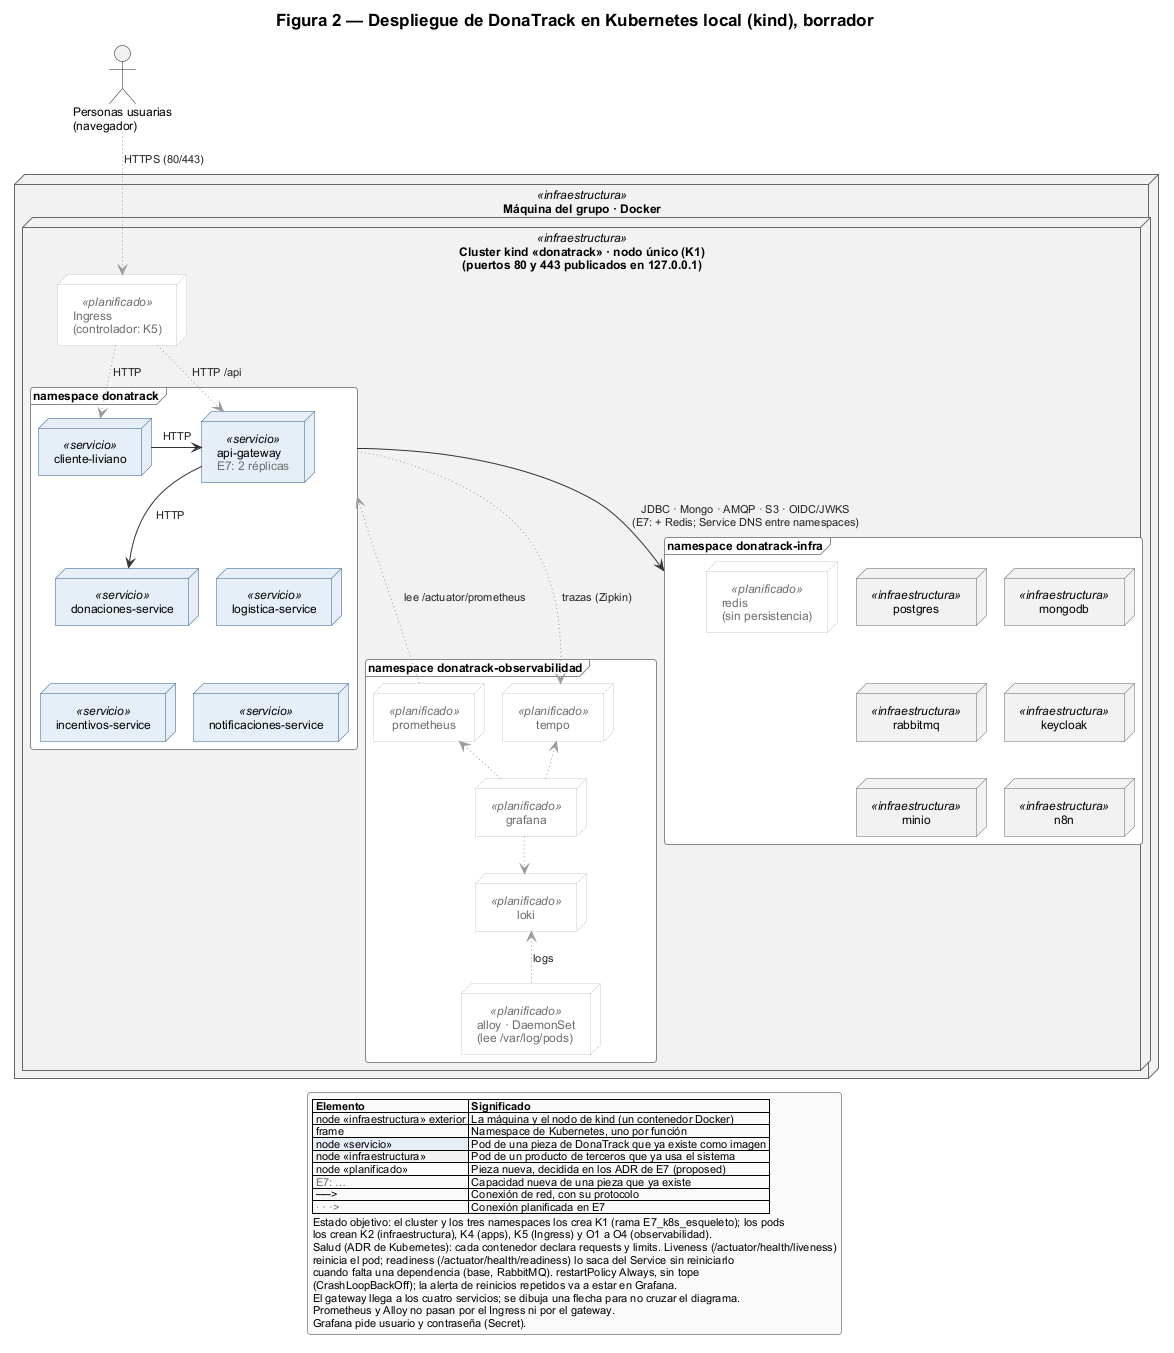
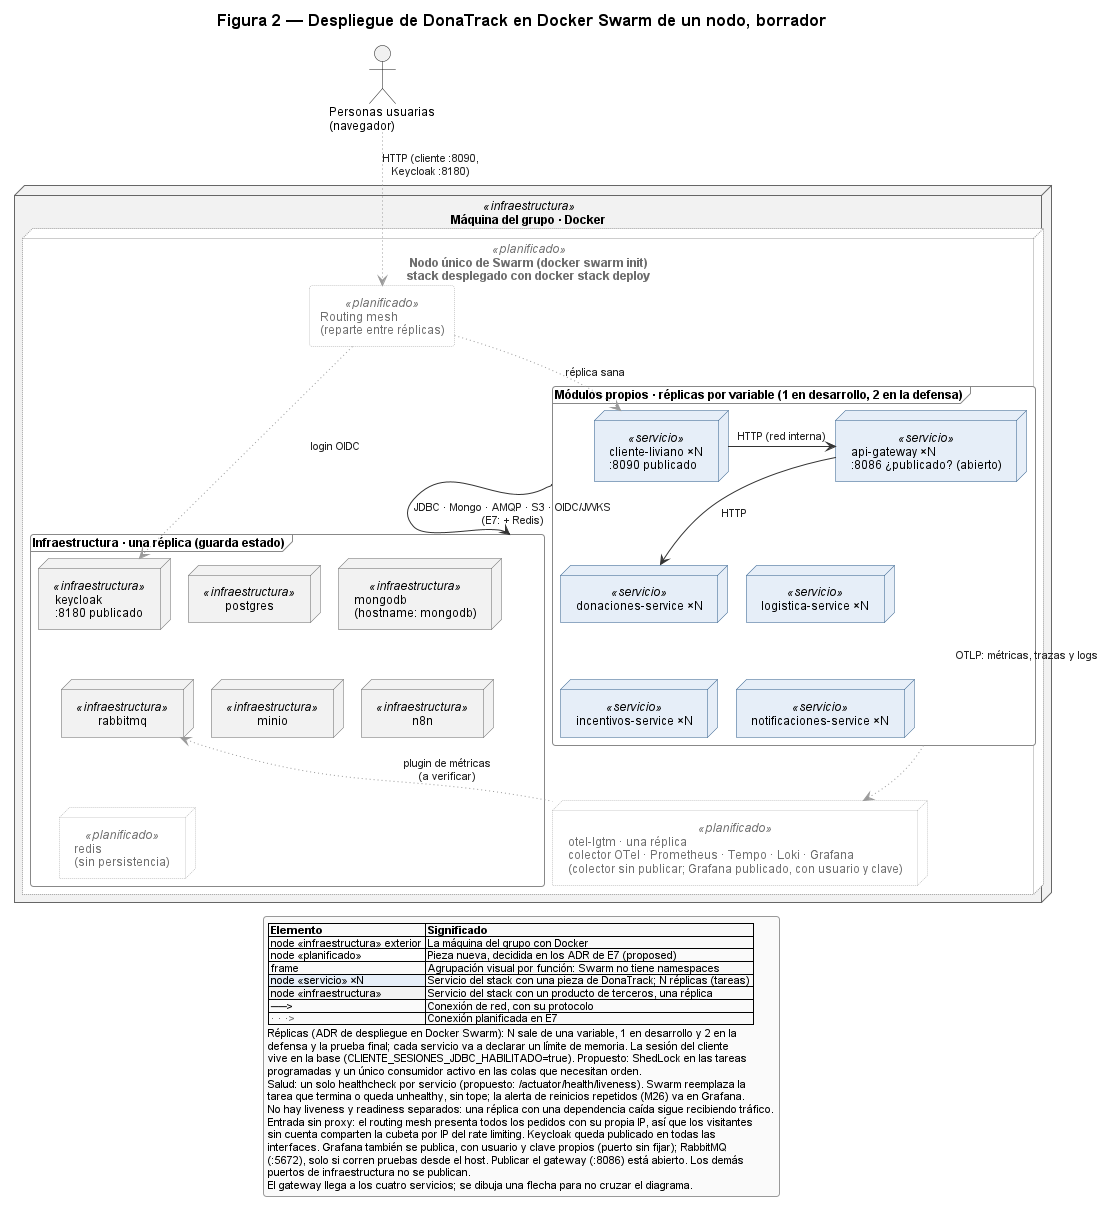
E7: diagramas del borrador rehechos para Docker Swarm y otel-lgtm (E7-S05b)
Figura 1 sin Ingress, con la imagen todo en uno grafana/otel-lgtm y las
señales por OTLP. Figura 2 con un nodo de Swarm, los seis módulos propios
replicados por variable, sin proxy delante y el gateway publicado como
decisión abierta. README de la carpeta e índices sincronizados.

diff --git a/docs/entrega-7/arquitectura/diagramas/README.md b/docs/entrega-7/arquitectura/diagramas/README.md
@@ -5,29 +5,36 @@ Borrador temprano de los diagramas de E7 (tarea A1, decisión Q14 de
 de referencia para los ADR; la versión final se hace al cierre de E7. Muestra el **estado objetivo**:
 lo marcado «planificado» está decidido en los ADR de E7 y todavía no existe en el código.
 
+Rehecho el 2026-11-18 por la revisión de simplificación (E7-S05b A): Docker Swarm de un nodo en
+lugar de Kubernetes (E7-S01), la imagen todo en uno `grafana/otel-lgtm` en lugar de cuatro
+contenedores (E7-S03) y sin proxy delante (E7-S02b A).
+
 | Figura | Archivo | Qué responde |
 |---|---|---|
-| 1 | [`01-componentes.puml`](01-componentes.puml) · [PNG](01-componentes.png) | Qué piezas tiene DonaTrack y cómo se hablan: gateway, Keycloak, MinIO, cliente liviano, Redis y el stack de observabilidad |
-| 2 | [`02-despliegue.puml`](02-despliegue.puml) · [PNG](02-despliegue.png) | Dónde corre cada pieza: el cluster kind, sus tres namespaces y lo que vigila la salud. Solo Kubernetes (Q14b): Compose, la demo pública y el túnel no se dibujan |
+| 1 | [`01-componentes.puml`](01-componentes.puml) · [PNG](01-componentes.png) | Qué piezas tiene DonaTrack y cómo se hablan: gateway, Keycloak, MinIO, cliente liviano, Redis y la observabilidad en `otel-lgtm`, con las señales por OTLP |
+| 2 | [`02-despliegue.puml`](02-despliegue.puml) · [PNG](02-despliegue.png) | Dónde corre cada pieza: un nodo de Swarm, los seis módulos propios con réplicas por variable, la infraestructura, Redis y `otel-lgtm` con una réplica, qué se publica y qué vigila la salud. Solo el stack de Swarm: Compose (desarrollo, CI, demo pública y túnel) no se dibuja |
 
 ## ADR que reflejan
 
-- [Kubernetes local con kind y Kustomize](../../../adr/20261117-despliegue-en-kubernetes-local-con-kind-y-kustomize.md): Ingress, namespaces, probes, reinicio y recursos.
-- [Stack de observabilidad](../../../adr/20261117-stack-de-observabilidad-con-prometheus-tempo-loki-y-grafana.md): Prometheus, Tempo, Loki con Alloy y Grafana.
-- [Rate limiting en el gateway](../../../adr/20261115-rate-limiting-en-el-api-gateway-por-cuenta-o-por-ip.md): dos réplicas y Redis con *fail-open*.
+- [Despliegue en Docker Swarm de un nodo, con réplicas](../../../adr/20261118-despliegue-en-docker-swarm-de-un-nodo-con-replicas.md): réplicas, publicación de puertos, *healthcheck* y reemplazo de tareas.
+- [Observabilidad con OpenTelemetry y `otel-lgtm`](../../../adr/20261118-observabilidad-con-opentelemetry-y-grafana-otel-lgtm.md): OTLP desde los módulos, la imagen todo en uno y la alerta de reinicios.
+- [Rate limiting en el gateway](../../../adr/20261115-rate-limiting-en-el-api-gateway-por-cuenta-o-por-ip.md): Redis compartido por las réplicas, con *fail-open*.
 - [GraphQL de solo lectura en Donaciones](../../../adr/donaciones-service/20261117-graphql-de-solo-lectura-en-donaciones.md): `/api/donaciones/graphql` detrás del gateway.
 
-Los nombres de los namespaces (`donatrack`, `donatrack-infra` y `donatrack-observabilidad`) son los
-que crea el esqueleto del cluster (tarea K1).
+Los recuadros de la Figura 2 agrupan por función y son solo visuales: Swarm no tiene namespaces. Lo
+que el ADR de Swarm deja abierto no se dibuja como decidido: si el gateway se publica va marcado
+«¿publicado? (abierto)», y no se dibujan el nombre del stack, las redes ni el puerto de Grafana.
 
 ## Regenerar
 
 Las figuras usan el estilo de E4 (`../../../entrega-4/arquitectura/diagramas/estilo-e4.iuml`) y el
-layout `smetana`, así que no necesitan Graphviz. Con PlantUML 1.2024.7, la versión del CI:
+layout `smetana`, así que no necesitan Graphviz:
 
 ```bash
 java -jar plantuml.jar -failfast2 -tpng docs/entrega-7/arquitectura/diagramas/*.puml
 ```
+
+Los PNG de este borrador se generaron con PlantUML 1.2024.3. El CI usa la 1.2024.7.
 
 Q14a pedía usar el job `generate-diagrams`, pero ese job está apagado (`enable-diagrams`) y solo
 dibuja el modelo de clases que genera Maven por servicio. En su lugar, el job hermano
@@ -35,7 +42,7 @@ dibuja el modelo de clases que genera Maven por servicio. En su lugar, el job he
 falla si alguno no compila y deja los PNG como artefacto. El PNG del repo se genera a mano y se
 commitea: la tipografía del runner no es la misma, así que no se compara byte a byte.
 
-Ancho del borrador: 1218 px (Figura 1) y 1174 px (Figura 2), pensado para leer en pantalla. Impreso a
-17 cm de ancho, la letra de 12 px queda en unos 5 pt. La versión final tiene que quedar en 7 pt o más,
-que pide unos 800 px o menos (las figuras del entregable de E4 usaron 730 px): partir cada figura o
-sacar detalle a una tabla.
+Ancho del borrador: 998 px (Figura 1) y 1105 px (Figura 2), pensado para leer en pantalla. Impreso a
+17 cm de ancho, la letra de 12 px queda en unos 5,8 pt (Figura 1) y 5,2 pt (Figura 2). La versión
+final tiene que quedar en 7 pt o más, que pide unos 800 px o menos (las figuras del entregable de E4
+usaron 730 px): partir cada figura o sacar detalle a una tabla.

diff --git a/docs/ESTADO_DOCUMENTACION.md b/docs/ESTADO_DOCUMENTACION.md
@@ -140,7 +140,7 @@ docs/
 │       └── rabbit/                        # Topología RabbitMQ por flujo (exchanges, colas, DLQ)
 │
 ├── entrega-7/
-│   └── arquitectura/diagramas/            # Borrador de componentes y despliegue en Kubernetes (PlantUML + PNG)
+│   └── arquitectura/diagramas/            # Borrador de componentes y despliegue en Docker Swarm (PlantUML + PNG)
 │
 └── entregas/                              # 🔒 Enunciados oficiales y diagramas entregados
     ├── README.md                          # 🟢 Matriz curricular e índice de entregas 1 a 7
@@ -428,7 +428,7 @@ Para evitar conflictos de merge recurrentes por solapamiento de índices secuenc
 | [`docs/entrega-4/arquitectura/entregable-5/`](entrega-4/arquitectura/entregable-5/README.md) | Entregable 5 Entrega 4 | Informe de arquitectura en .docx/.pdf, su fuente `contenido.md`, las 5 figuras y el constructor. | 🟢 Sincronizado |
 | [`docs/entrega-4/arquitectura/arquitectura-sistema.md`](entrega-4/arquitectura/arquitectura-sistema.md) | Arquitectura Entrega 4 | Respaldo técnico verificado del entregable 5: estilo, capas, patrones, integración, datos, despliegue, calidad y deuda; anexo por servicio. | 🟢 Sincronizado |
 | [`docs/entrega-4/arquitectura/anexo-servicios.md`](entrega-4/arquitectura/anexo-servicios.md) | Anexo Entrega 4 | Detalle por servicio del documento de arquitectura (entregable 3): responsabilidad, agregados, entradas, salidas, datos y deuda propia. | 🟢 Sincronizado |
-| [`docs/entrega-7/arquitectura/diagramas/`](entrega-7/arquitectura/diagramas/README.md) | Diagramas Entrega 7 | Borrador de A1 (Q14): componentes y despliegue en Kubernetes (kind, tres namespaces), PlantUML + PNG con el estilo de E4; estado objetivo de los ADR de E7. Versión final al cierre de E7. `[PROPOSED]`. | 🟡 Parcial |
+| [`docs/entrega-7/arquitectura/diagramas/`](entrega-7/arquitectura/diagramas/README.md) | Diagramas Entrega 7 | Borrador de A1 (Q14), rehecho por E7-S05b: componentes con `otel-lgtm` y OTLP, y despliegue en Docker Swarm de un nodo con réplicas por variable y sin proxy delante, PlantUML + PNG con el estilo de E4; estado objetivo de los ADR de E7. Versión final al cierre de E7. `[PROPOSED]`. | 🟡 Parcial |
 | [`docs/entrega-4/arquitectura/diagramas/`](entrega-4/arquitectura/diagramas/) | Diagramas Entrega 4 | Diagramas complementarios PlantUML + PNG: capas, integración AMQP, despliegue, secuencias del broker, planificación y eventos de logística, datos. Subcarpeta `rabbit/`: topología RabbitMQ por flujo. | 🟢 Sincronizado |
 | [`docs/entrega-4/donaciones/plan-broker-logistica.md`](entrega-4/donaciones/plan-broker-logistica.md) | Plan Entrega 4 | Plan de implementación unificado del Broker de Integración con Logística. | 🟢 Sincronizado |
 | [`docs/entrega-4/donaciones/bitacora-broker-logistica.md`](entrega-4/donaciones/bitacora-broker-logistica.md) | Bitácora Entrega 4 | Registro vivo de decisiones, preguntas y avances del broker (TLDR + Q&A). | 🟢 Sincronizado |

diff --git a/docs/README.md b/docs/README.md
@@ -149,7 +149,7 @@ docs/
 │       └── rabbit/                        # Topología RabbitMQ por flujo (exchanges, colas, DLQ)
 │
 ├── entrega-7/
-│   └── arquitectura/diagramas/            # Borrador de componentes y despliegue en Kubernetes (PlantUML + PNG)
+│   └── arquitectura/diagramas/            # Borrador de componentes y despliegue en Docker Swarm (PlantUML + PNG)
 │
 └── entregas/                              # 🔒 Enunciados oficiales y diagramas entregados
     ├── README.md                          # 🎓 Matriz curricular e índice de entregas 1 a 7
@@ -195,7 +195,7 @@ docs/
 * 📋 **Requerimientos de Entrega 6 (cliente liviano, autenticación y gateway):** [requerimientos/requerimientos-e6.md](requerimientos/requerimientos-e6.md)
 * 📋 **Requerimientos de Entrega 7 (observabilidad y seguridad; rondas de decisión):** [requerimientos/requerimientos-e7.md](requerimientos/requerimientos-e7.md)
 * 🧭 **ADRs de E7 (`proposed`, PR de los ADR):** [despliegue en Docker Swarm de un nodo, con réplicas](adr/20261118-despliegue-en-docker-swarm-de-un-nodo-con-replicas.md) · [observabilidad con OpenTelemetry y `otel-lgtm`](adr/20261118-observabilidad-con-opentelemetry-y-grafana-otel-lgtm.md) · [rate limiting en el gateway](adr/20261115-rate-limiting-en-el-api-gateway-por-cuenta-o-por-ip.md) · [GraphQL de solo lectura en Donaciones](adr/donaciones-service/20261117-graphql-de-solo-lectura-en-donaciones.md)
-* 🗺 **Diagramas de E7 (borrador de componentes y de despliegue en Kubernetes):** [entrega-7/arquitectura/diagramas/](entrega-7/arquitectura/diagramas/README.md)
+* 🗺 **Diagramas de E7 (borrador de componentes y de despliegue en Docker Swarm):** [entrega-7/arquitectura/diagramas/](entrega-7/arquitectura/diagramas/README.md)
 * 🧭 **Plan de trabajo de E6 sin autenticación ni estilos:** [requerimientos/plan-e6-trabajo-sin-auth.md](requerimientos/plan-e6-trabajo-sin-auth.md)
 * 🔌 **Plan del cliente liviano con datos reales y gateway (alternativas y fases):** [requerimientos/plan-e6-cliente-datos-reales-y-gateway.md](requerimientos/plan-e6-cliente-datos-reales-y-gateway.md) · brechas por pantalla: [requerimientos/brechas-de-datos-por-pantalla-e6.md](requerimientos/brechas-de-datos-por-pantalla-e6.md)
 * 🎨 **Proceso de diseño de la interfaz (UX, identidad visual y vistas):** [interfaz/README.md](interfaz/README.md) · reglas del módulo: [../cliente-liviano/AGENTS.md](../cliente-liviano/AGENTS.md)
